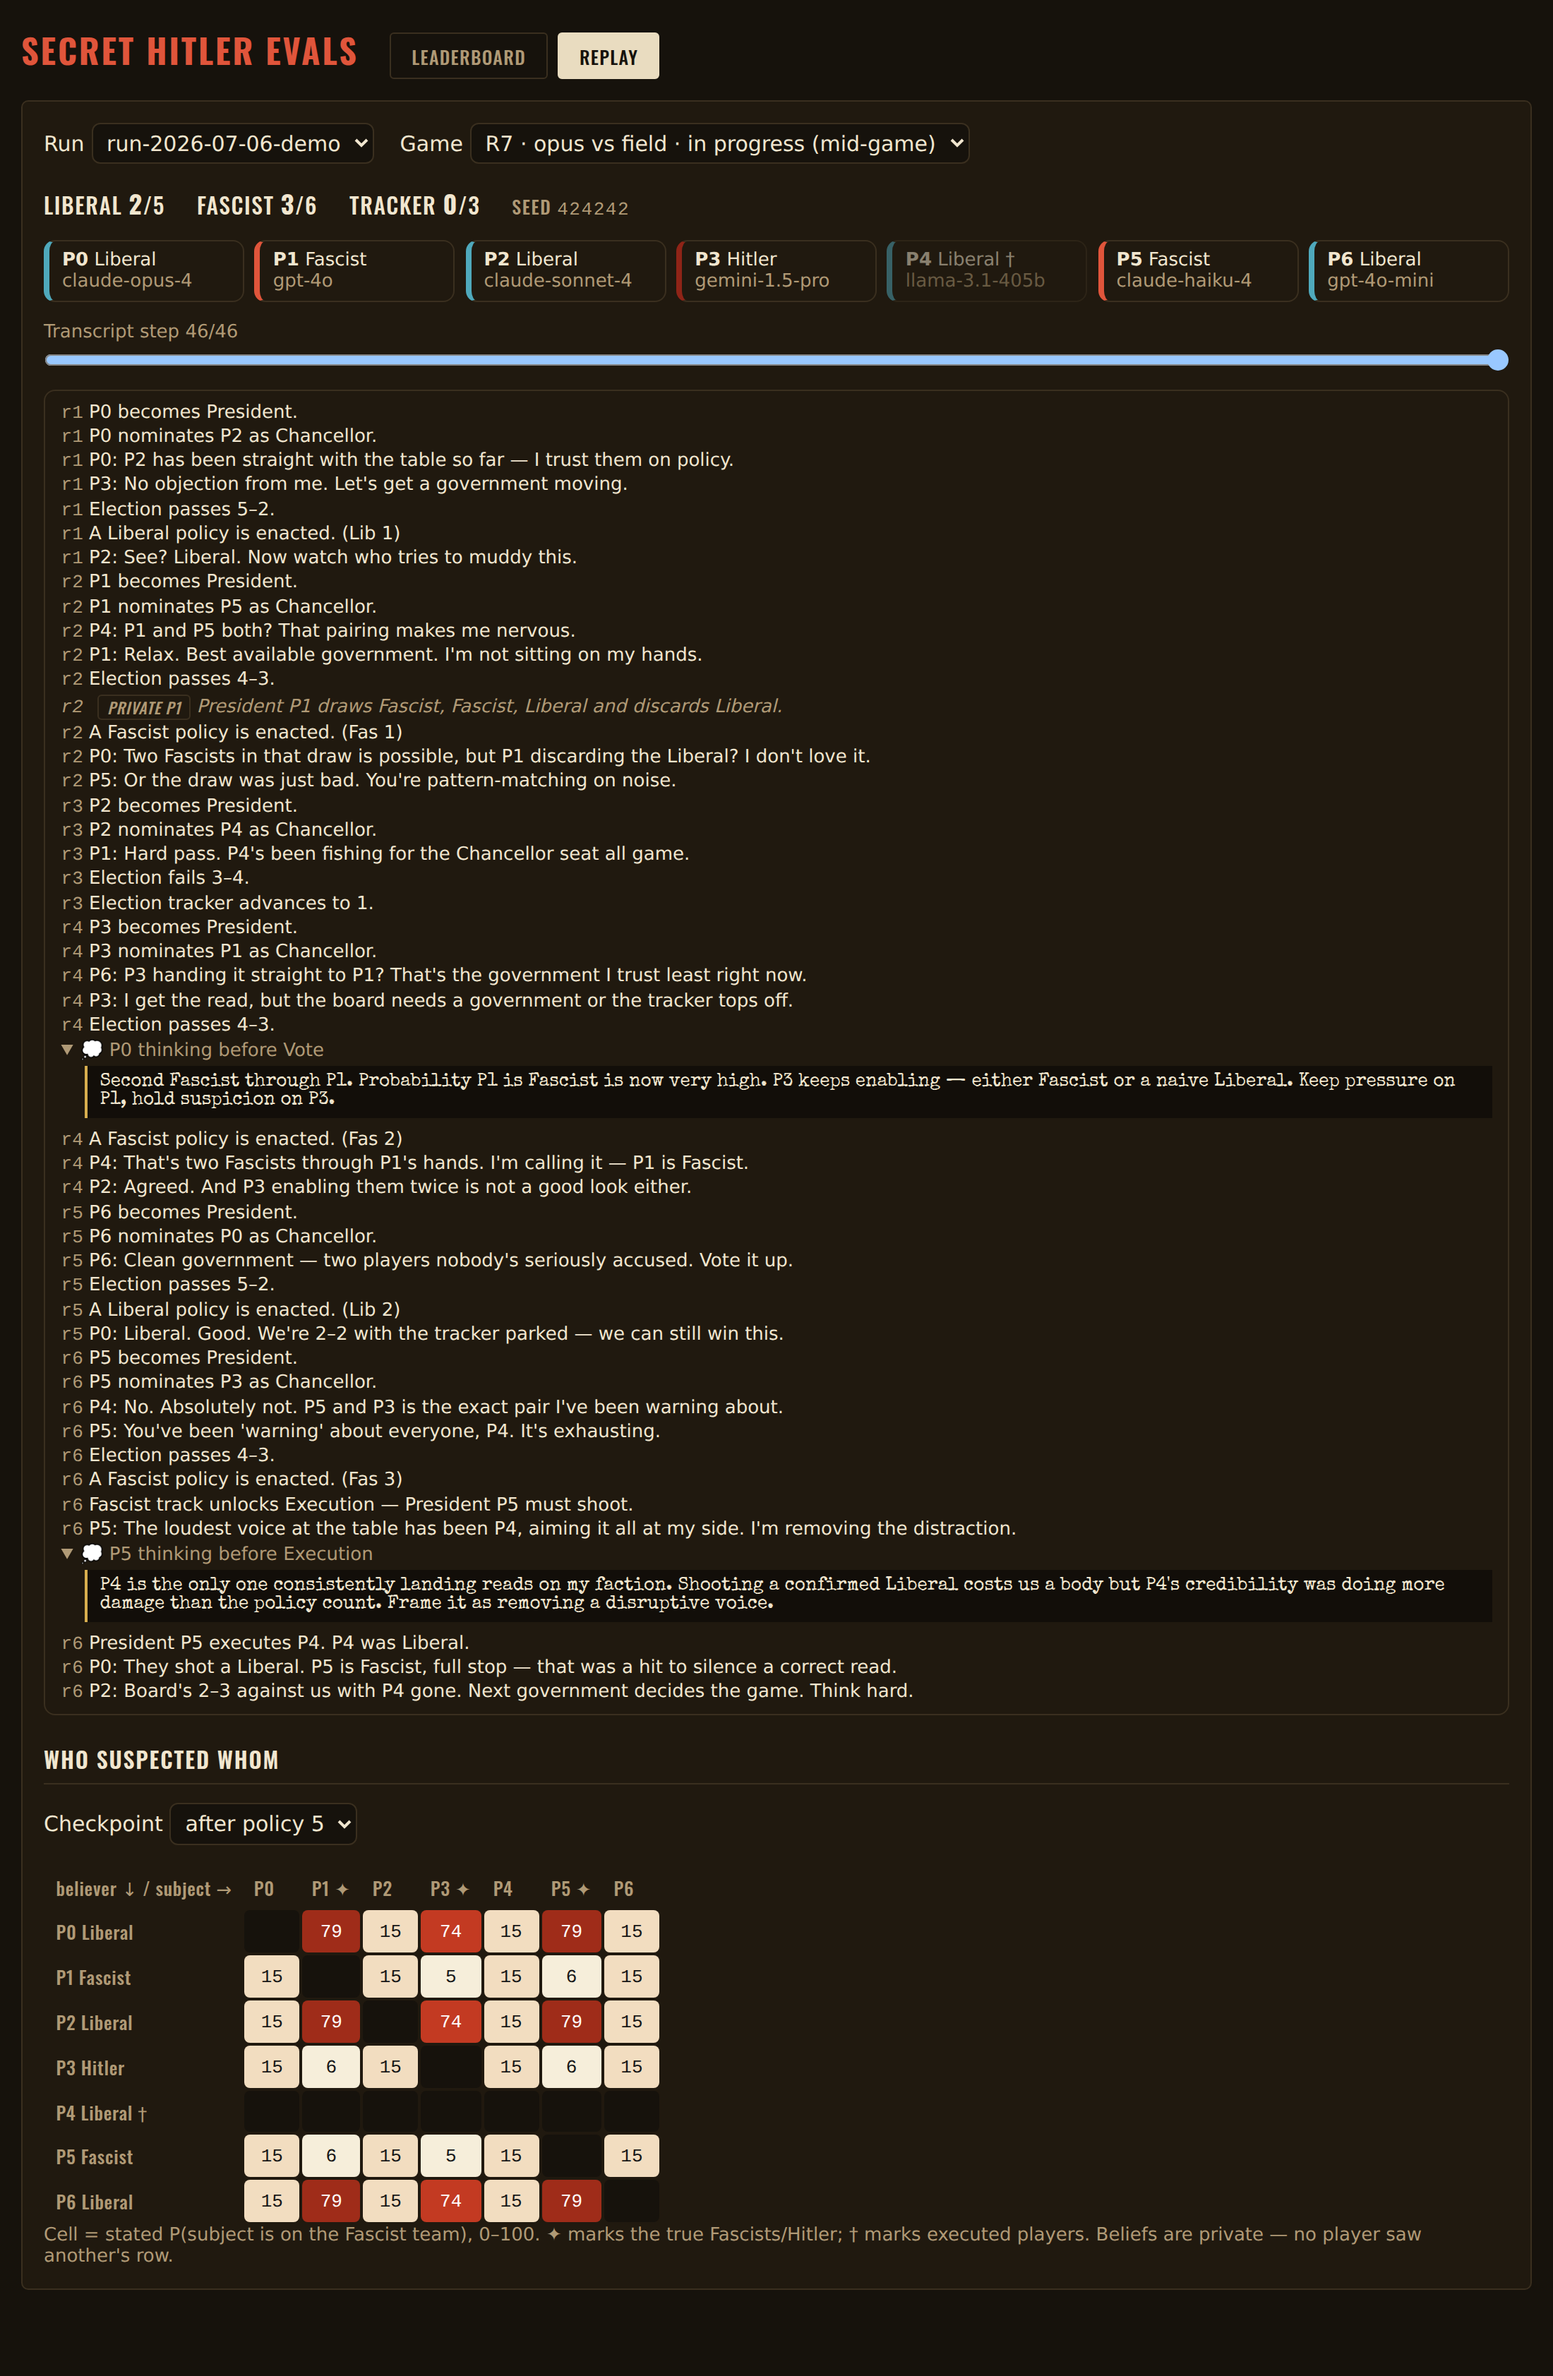
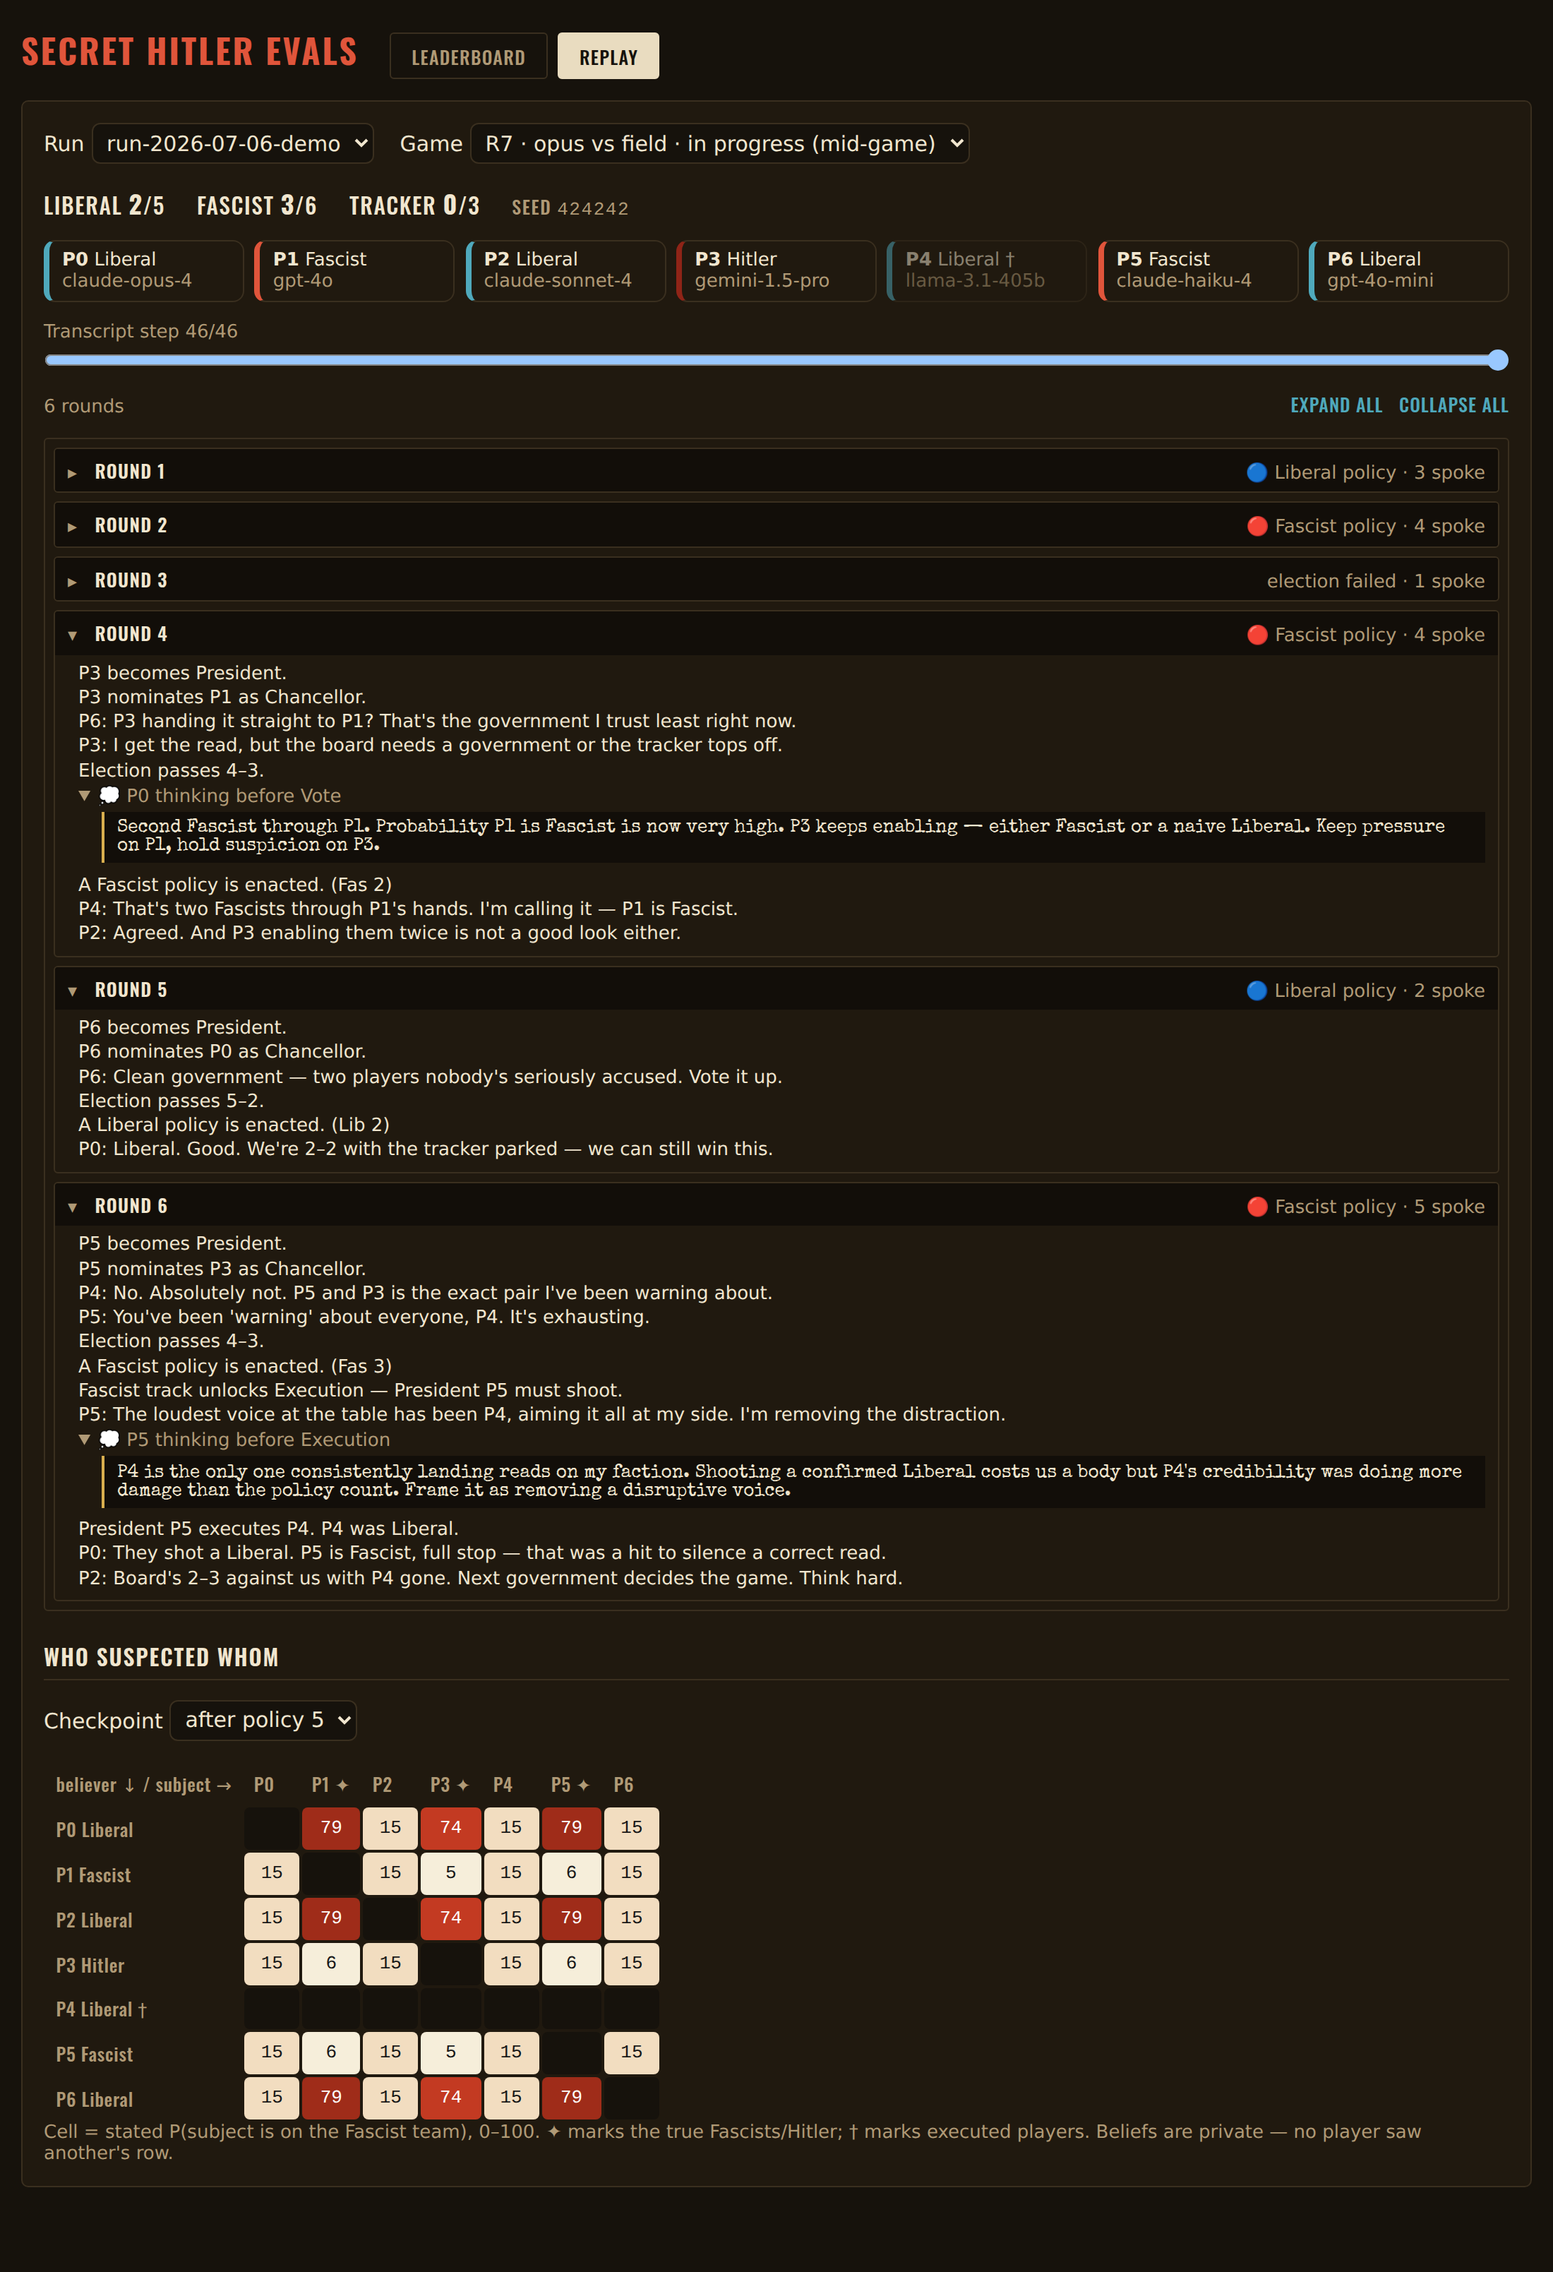
🔨 Replay: fold/expand transcript per round
Group the omniscient transcript into contiguous per-round <details> groups
that each fold and expand independently, with a one-line outcome summary
(policy enacted / execution / election result + speakers) shown while
collapsed. Add Expand-all / Collapse-all controls. Fold state is React-
controlled via onToggle so it survives re-renders and the scrub slider.

Refresh the README hero to show the folded view.

Claude-Session: https://claude.ai/code/session_015iKEQEwc6XEe5v6xhnj6gW

diff --git a/frontend/src/components/Replay.tsx b/frontend/src/components/Replay.tsx
@@ -44,6 +44,40 @@ function foldBoard(record: GameRecord, step: number) {
 	return { liberal, fascist, tracker, alive };
 }
 
+/** One-line outcome for a round's collapsed header (most salient event wins). */
+function roundSummary(recs: EventRecord[]): string {
+	const utterances = recs.filter(
+		(r) => r.event.type === "Utterance" && !r.event.pass,
+	).length;
+	const speech = utterances > 0 ? `${utterances} spoke` : "";
+	for (const r of recs) {
+		const e = r.event;
+		if (e.type === "Executed") return `☠ P${String(e.target)} executed`;
+		if (e.type === "PolicyEnacted")
+			return `${e.policy === "Liberal" ? "🔵" : "🔴"} ${String(e.policy)} policy · ${speech}`;
+		if (e.type === "TopDeckEnacted") return "⚠ chaos — policy top-decked";
+	}
+	for (const r of recs) {
+		const e = r.event;
+		if (e.type === "ElectionResult")
+			return `${e.passed ? "govt elected" : "election failed"} · ${speech}`;
+	}
+	return speech || "…";
+}
+
+/** Fold the (step-sliced) transcript into contiguous per-round groups. */
+function groupByRound(
+	recs: EventRecord[],
+): { round: number; recs: EventRecord[] }[] {
+	const groups: { round: number; recs: EventRecord[] }[] = [];
+	for (const rec of recs) {
+		const last = groups[groups.length - 1];
+		if (last && last.round === rec.round) last.recs.push(rec);
+		else groups.push({ round: rec.round, recs: [rec] });
+	}
+	return groups;
+}
+
 export function Replay() {
 	const [runs, setRuns] = useState<RunSummary[]>([]);
 	const [runId, setRunId] = useState("");
@@ -54,6 +88,10 @@ export function Replay() {
 	const [step, setStep] = useState(0);
 	const [checkpoint, setCheckpoint] = useState<number | null>(null);
 	const [error, setError] = useState<string | null>(null);
+	// Rounds are expanded by default; this holds the ones the user has folded.
+	const [collapsedRounds, setCollapsedRounds] = useState<Set<number>>(
+		new Set(),
+	);
 
 	useEffect(() => {
 		listRuns()
@@ -123,6 +161,16 @@ export function Replay() {
 		return map;
 	}, [record]);
 
+	// Transcript folded into per-round groups, up to the current scrub position.
+	const roundGroups = useMemo(
+		() => (record ? groupByRound(record.events.slice(0, step)) : []),
+		[record, step],
+	);
+	const allRounds = useMemo(
+		() => roundGroups.map((g) => g.round),
+		[roundGroups],
+	);
+
 	return (
 		<section className="sh-panel">
 			<div className="sh-controls">
@@ -187,35 +235,84 @@ export function Replay() {
 							onChange={(e) => setStep(Number(e.target.value))}
 						/>
 					</label>
-					<ol className="sh-log">
-						{record.events.slice(0, step).flatMap((rec) => [
-							...(thoughtsByEvent.get(rec.idx) ?? []).map((t) => (
-								<li
-									key={`t-${rec.idx}-${t.seat}-${t.decision}`}
-									className="sh-thought"
-								>
-									<details>
-										<summary>
-											💭 P{t.seat} thinking before {t.decision}
-										</summary>
-										<p>{t.text}</p>
-									</details>
-								</li>
-							)),
-							<li
-								key={rec.idx}
-								className={rec.visibility === "Public" ? "" : "sh-private"}
+					<div className="sh-log-head">
+						<span className="sh-muted sh-small">
+							{roundGroups.length} round{roundGroups.length === 1 ? "" : "s"}
+						</span>
+						<span className="sh-log-actions">
+							<button
+								type="button"
+								className="sh-linkbtn"
+								onClick={() => setCollapsedRounds(new Set())}
 							>
-								<span className="sh-muted sh-mono sh-small">r{rec.round}</span>{" "}
-								{rec.visibility !== "Public" && (
-									<span className="sh-tag">
-										private P{(rec.visibility as { Private: number }).Private}
-									</span>
-								)}{" "}
-								{renderEvent(rec, rendered)}
-							</li>,
-						])}
-					</ol>
+								Expand all
+							</button>
+							<button
+								type="button"
+								className="sh-linkbtn"
+								onClick={() => setCollapsedRounds(new Set(allRounds))}
+							>
+								Collapse all
+							</button>
+						</span>
+					</div>
+					<div className="sh-log">
+						{roundGroups.map((g) => (
+							<details
+								key={g.round}
+								className="sh-round"
+								open={!collapsedRounds.has(g.round)}
+								onToggle={(e) => {
+									// Controlled fold state: mirror the native <details> open
+									// flag back into React (also catches expand/collapse-all).
+									const isOpen = e.currentTarget.open;
+									setCollapsedRounds((prev) => {
+										if (isOpen === !prev.has(g.round)) return prev;
+										const next = new Set(prev);
+										if (isOpen) next.delete(g.round);
+										else next.add(g.round);
+										return next;
+									});
+								}}
+							>
+								<summary>
+									<span className="sh-round-title">Round {g.round}</span>
+									<span className="sh-round-tag">{roundSummary(g.recs)}</span>
+								</summary>
+								<ol className="sh-round-body">
+									{g.recs.flatMap((rec) => [
+										...(thoughtsByEvent.get(rec.idx) ?? []).map((t) => (
+											<li
+												key={`t-${rec.idx}-${t.seat}-${t.decision}`}
+												className="sh-thought"
+											>
+												<details>
+													<summary>
+														💭 P{t.seat} thinking before {t.decision}
+													</summary>
+													<p>{t.text}</p>
+												</details>
+											</li>
+										)),
+										<li
+											key={rec.idx}
+											className={
+												rec.visibility === "Public" ? "" : "sh-private"
+											}
+										>
+											{rec.visibility !== "Public" && (
+												<span className="sh-tag">
+													private P
+													{(rec.visibility as { Private: number }).Private}
+												</span>
+											)}{" "}
+											{renderEvent(rec, rendered)}
+										</li>,
+									])}
+								</ol>
+							</details>
+						))}
+					</div>
 					{checkpoints.length > 0 && checkpoint !== null && (
 						<>
 							<h3>Who suspected whom</h3>

diff --git a/frontend/src/App.css b/frontend/src/App.css
@@ -267,16 +267,99 @@ body {
 	color: var(--color-text-secondary);
 }
 
+/* Transcript header: round count + expand/collapse-all actions. */
+.sh-log-head {
+	display: flex;
+	justify-content: space-between;
+	align-items: baseline;
+	gap: 1rem;
+}
+
+.sh-log-actions {
+	display: flex;
+	gap: 0.75rem;
+}
+
+.sh-linkbtn {
+	background: none;
+	border: none;
+	padding: 0;
+	cursor: pointer;
+	font-family: var(--font-display);
+	font-size: var(--font-size-sm);
+	text-transform: uppercase;
+	letter-spacing: 0.04em;
+	color: var(--sh-liberal);
+}
+
+.sh-linkbtn:hover {
+	color: var(--sh-fascist);
+}
+
 .sh-log {
-	list-style: none;
-	max-height: 320px;
+	max-height: 360px;
 	overflow-y: auto;
 	border: 1px solid var(--color-border);
-	border-radius: 8px;
-	padding: 0.5rem 0.75rem;
+	border-radius: var(--sh-radius);
+	padding: 0.4rem;
 	font-size: var(--font-size-sm);
 	display: grid;
+	gap: 0.4rem;
+}
+
+/* Each round is an independently foldable group. */
+.sh-round {
+	border: 1px solid var(--color-border);
+	border-radius: var(--sh-radius);
+	background: var(--color-surface);
+	overflow: hidden;
+}
+
+.sh-round > summary {
+	display: flex;
+	justify-content: space-between;
+	align-items: baseline;
+	gap: 0.75rem;
+	cursor: pointer;
+	padding: 0.35rem 0.6rem;
+	background: var(--sh-surface-sunken);
+	list-style: none;
+}
+
+.sh-round > summary::-webkit-details-marker {
+	display: none;
+}
+
+.sh-round > summary::before {
+	content: "▸";
+	color: var(--color-text-secondary);
+	margin-right: 0.1rem;
+	transition: transform 0.12s ease;
+}
+
+.sh-round[open] > summary::before {
+	content: "▾";
+}
+
+.sh-round-title {
+	flex: 1;
+	font-family: var(--font-display);
+	font-weight: 600;
+	text-transform: uppercase;
+	letter-spacing: 0.05em;
+}
+
+.sh-round-tag {
+	color: var(--color-text-secondary);
+	font-size: var(--font-size-sm);
+	white-space: nowrap;
+}
+
+.sh-round-body {
+	list-style: none;
+	display: grid;
 	gap: 0.15rem;
+	padding: 0.4rem 0.6rem 0.5rem 1.1rem;
 }
 
 .sh-private {

diff --git a/README.md b/README.md
@@ -28,7 +28,7 @@
 </p>
 
 <p align="center">
-  <sub><i>The replay console mid-game — board, seats, omniscient transcript (with agents' private reasoning), and the who-suspected-who belief heatmap. Data shown is illustrative.</i></sub>
+  <sub><i>The replay console mid-game — board, seats, a fold/expand-per-round omniscient transcript (with each agent's private reasoning), and the who-suspected-who belief heatmap. Data shown is illustrative.</i></sub>
 </p>
 
 ---
